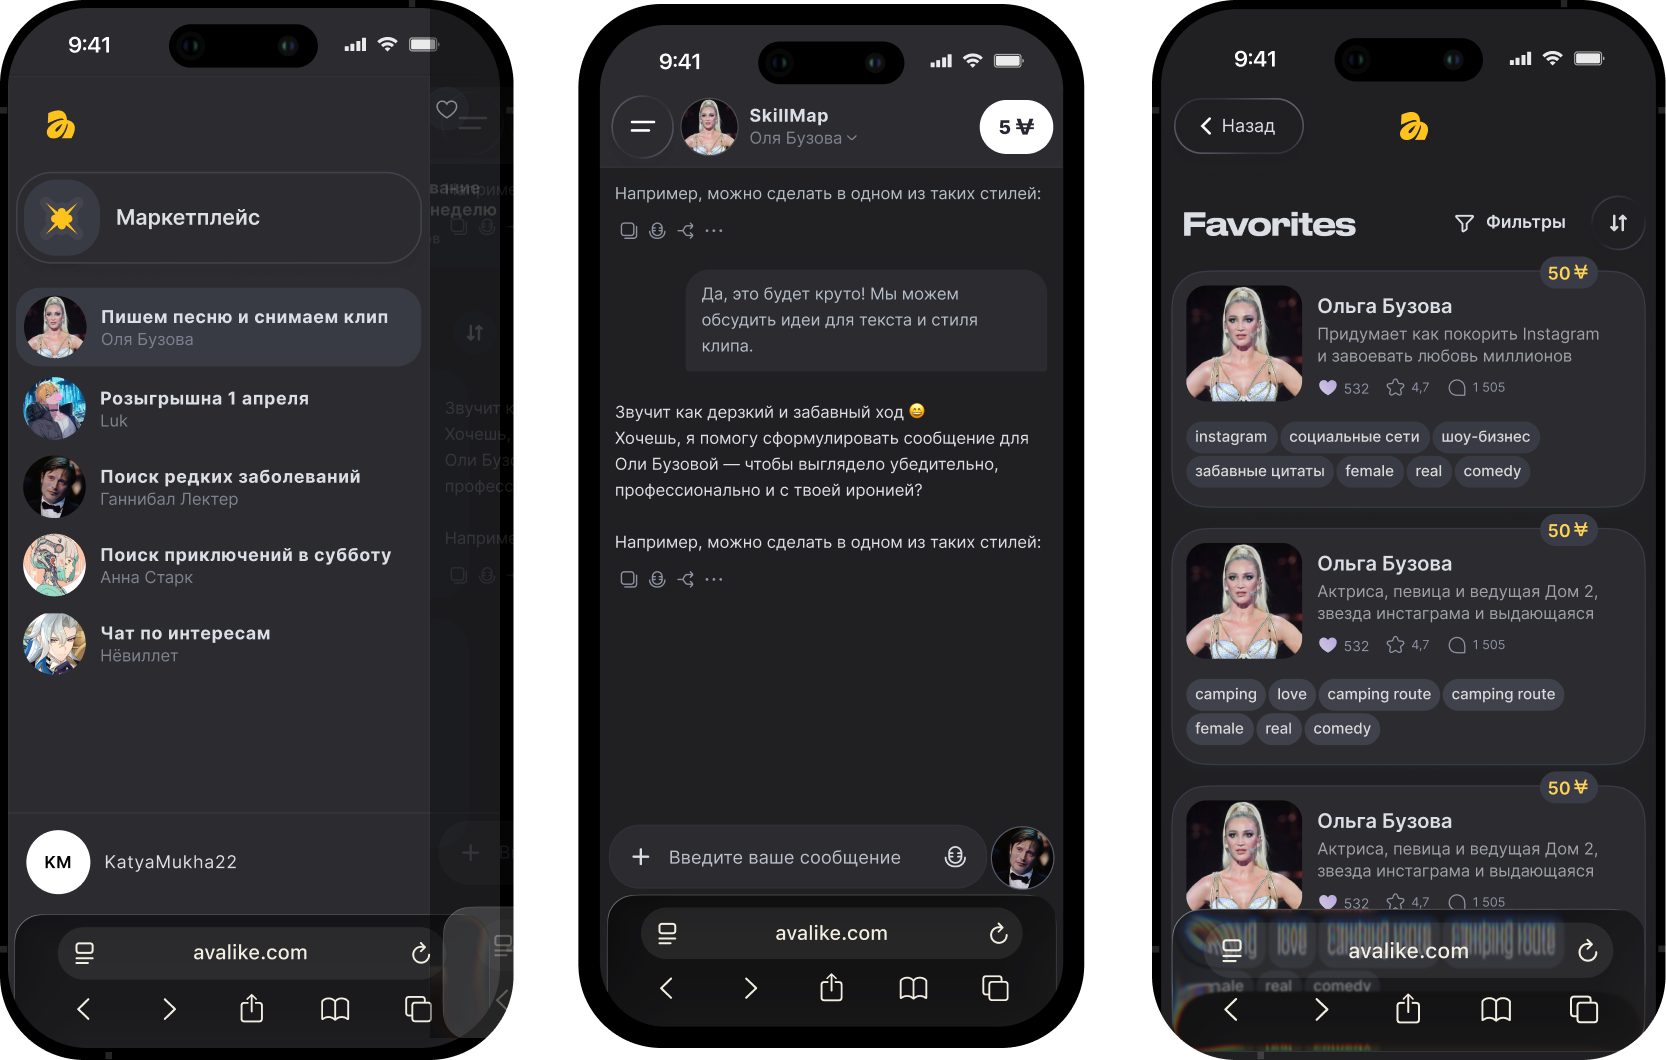
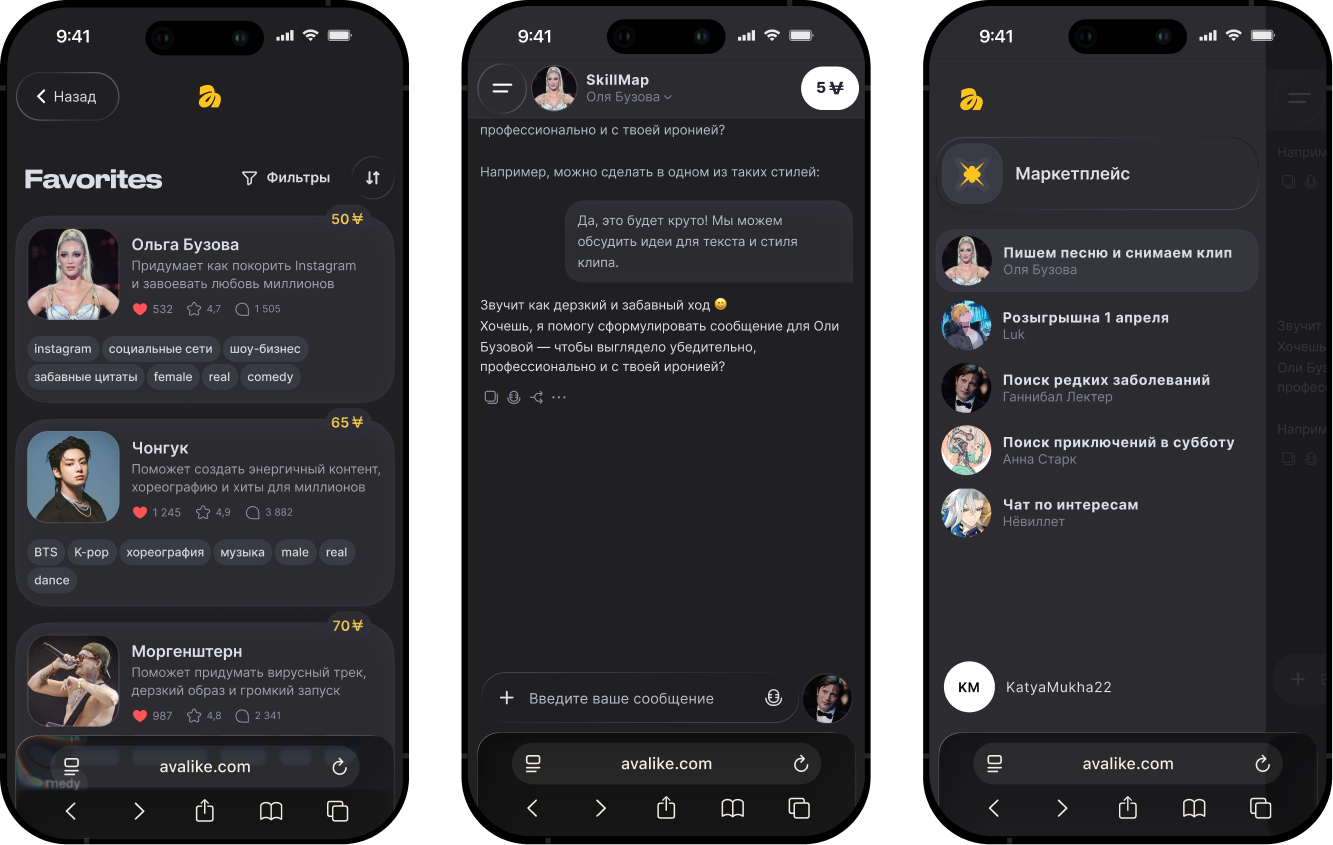
-

diff --git a/index.html b/index.html
@@ -518,31 +518,6 @@
       font-style: normal;
     }
 
-    .hero__photo-cue-note {
-      position: absolute;
-      bottom: calc(100% - 1px);
-      left: 0;
-      display: inline-flex;
-      align-items: center;
-      white-space: nowrap;
-    }
-
-    .hero__photo-cue-label {
-      max-width: 0;
-      overflow: hidden;
-      opacity: 0;
-      white-space: nowrap;
-      font-size: 14px;
-      line-height: 18px;
-      transition: max-width 240ms cubic-bezier(0.22, 1, 0.36, 1), opacity 180ms ease;
-    }
-
-    .hero__photo-trigger:hover .hero__photo-cue-label,
-    .hero__photo-trigger:focus-visible .hero__photo-cue-label {
-      max-width: 80px;
-      opacity: 1;
-    }
-
     .hero__photo-thumbs {
       display: inline-flex;
       align-items: center;
@@ -1383,21 +1358,31 @@
 
     @media (max-width: 700px) {
       .hero__intro {
-        left: calc(var(--page-padding) - 40px);
+        left: var(--page-padding);
         width: calc(100vw - (2 * var(--page-padding)));
       }
     }
 
     @media (max-width: 700px) {
       .hero__intro {
-        top: calc(max(32svh, 215px) + 50px);
+        top: calc(max(32svh, 215px) + 30px);
       }
 
       .hero__mukha {
-        top: calc(max(32svh, 215px) - 68px);
+        top: calc(max(32svh, 215px) - 88px);
         left: var(--page-padding);
         right: auto;
         translate: -14px 0;
+      }
+    }
+
+    @media (max-width: 399px) {
+      .hero__intro {
+        top: calc(max(32svh, 215px) + 10px);
+      }
+
+      .hero__mukha {
+        top: calc(max(32svh, 215px) - 108px);
       }
     }
 
@@ -1719,7 +1704,7 @@
         <p id="hero-title">
           <span class="hero__line">привет, я&nbsp;Катя <img class="hero__arrow" src="assets/Icons/arrow.svg" alt=""> продуктовый дизайнер</span>
           <span class="hero__line">с&nbsp;инженерной базой и&nbsp;17-летним опытом</span>
-          <span class="hero__line">в&nbsp;<em class="hero__photo-trigger" tabindex="0">документальной фотографии<span class="hero__photo-cue" aria-hidden="true"><span class="hero__photo-cue-note"><span class="hero__photo-cue-label">смотреть</span></span><span class="hero__photo-thumbs"><img src="assets/photo/3.png" alt=""><img src="assets/photo/4.png" alt=""><img src="assets/photo/5.png" alt=""></span></span></em></span>
+          <span class="hero__line">в&nbsp;<em class="hero__photo-trigger" tabindex="0">документальной фотографии<span class="hero__photo-cue" aria-hidden="true"><span class="hero__photo-thumbs"><img src="assets/photo/3.png" alt=""><img src="assets/photo/4.png" alt=""><img src="assets/photo/5.png" alt=""></span></span></em></span>
         </p>
         <div class="hero__top-links">
           <a href="assets/files/katya-mukha-cv.pdf" target="_blank" rel="noreferrer"><img class="hero__link-arrow" src="assets/Icons/arrow.svg" alt="">cv</a>
